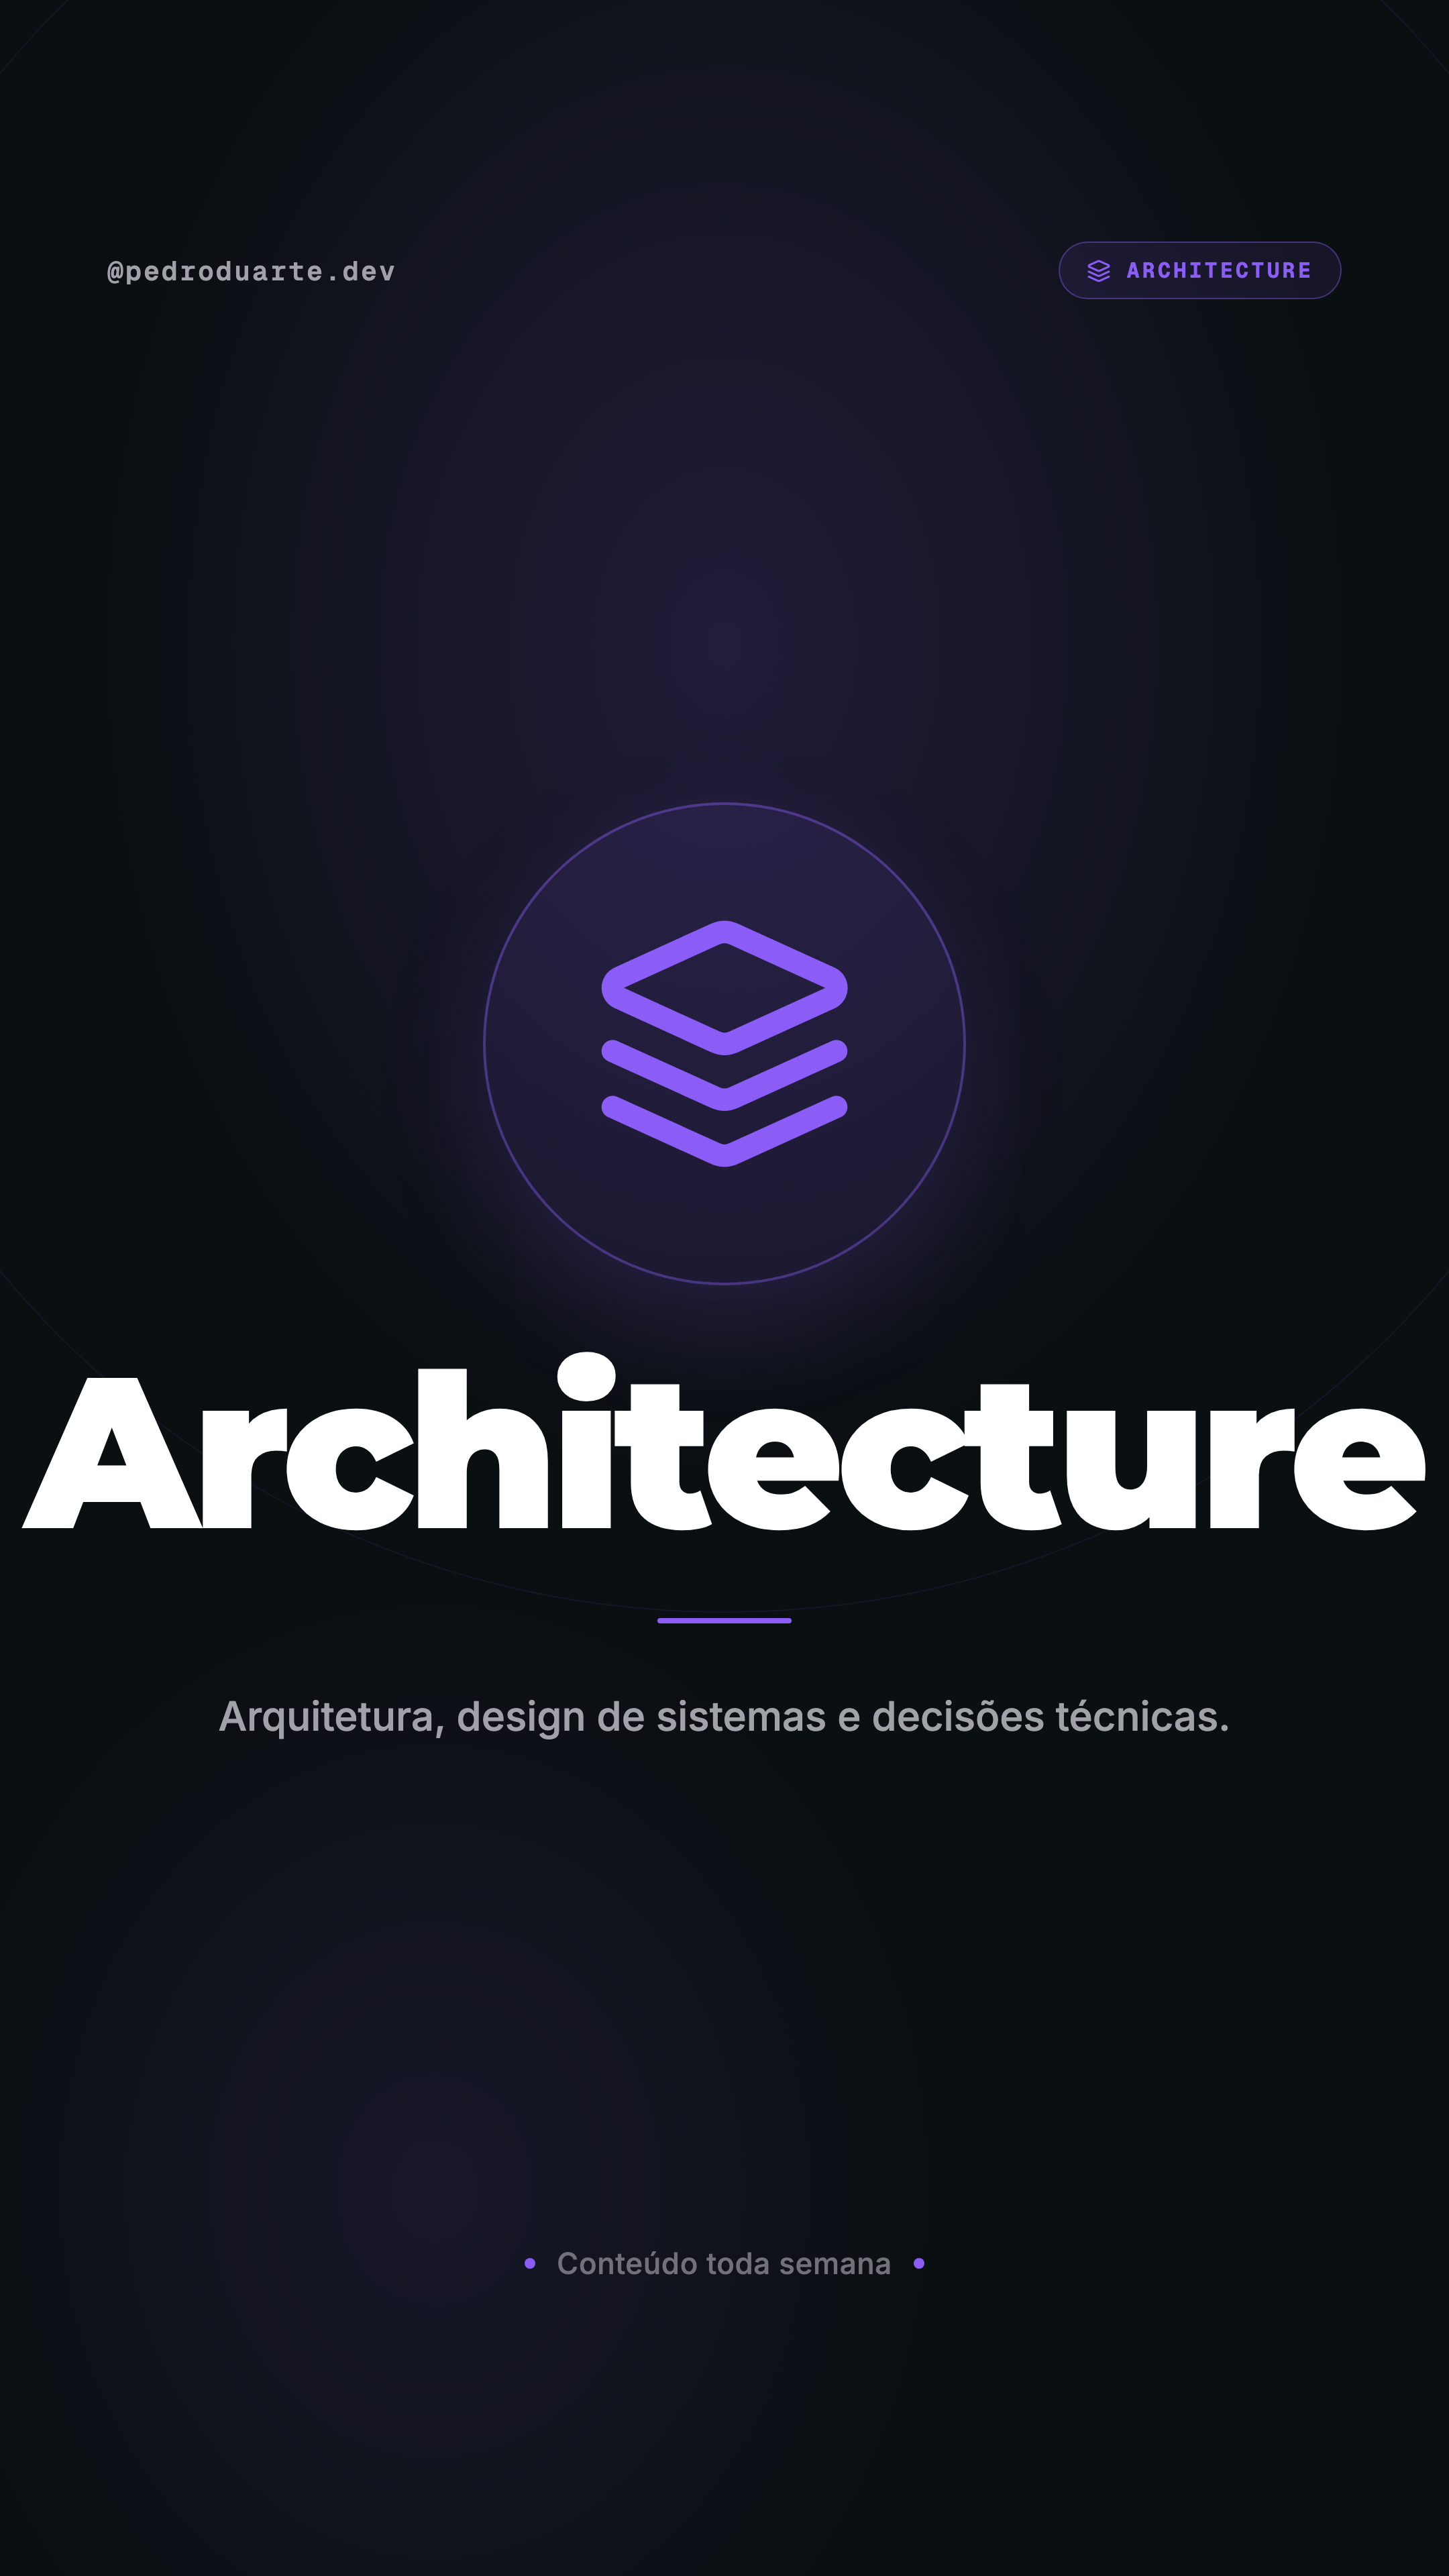
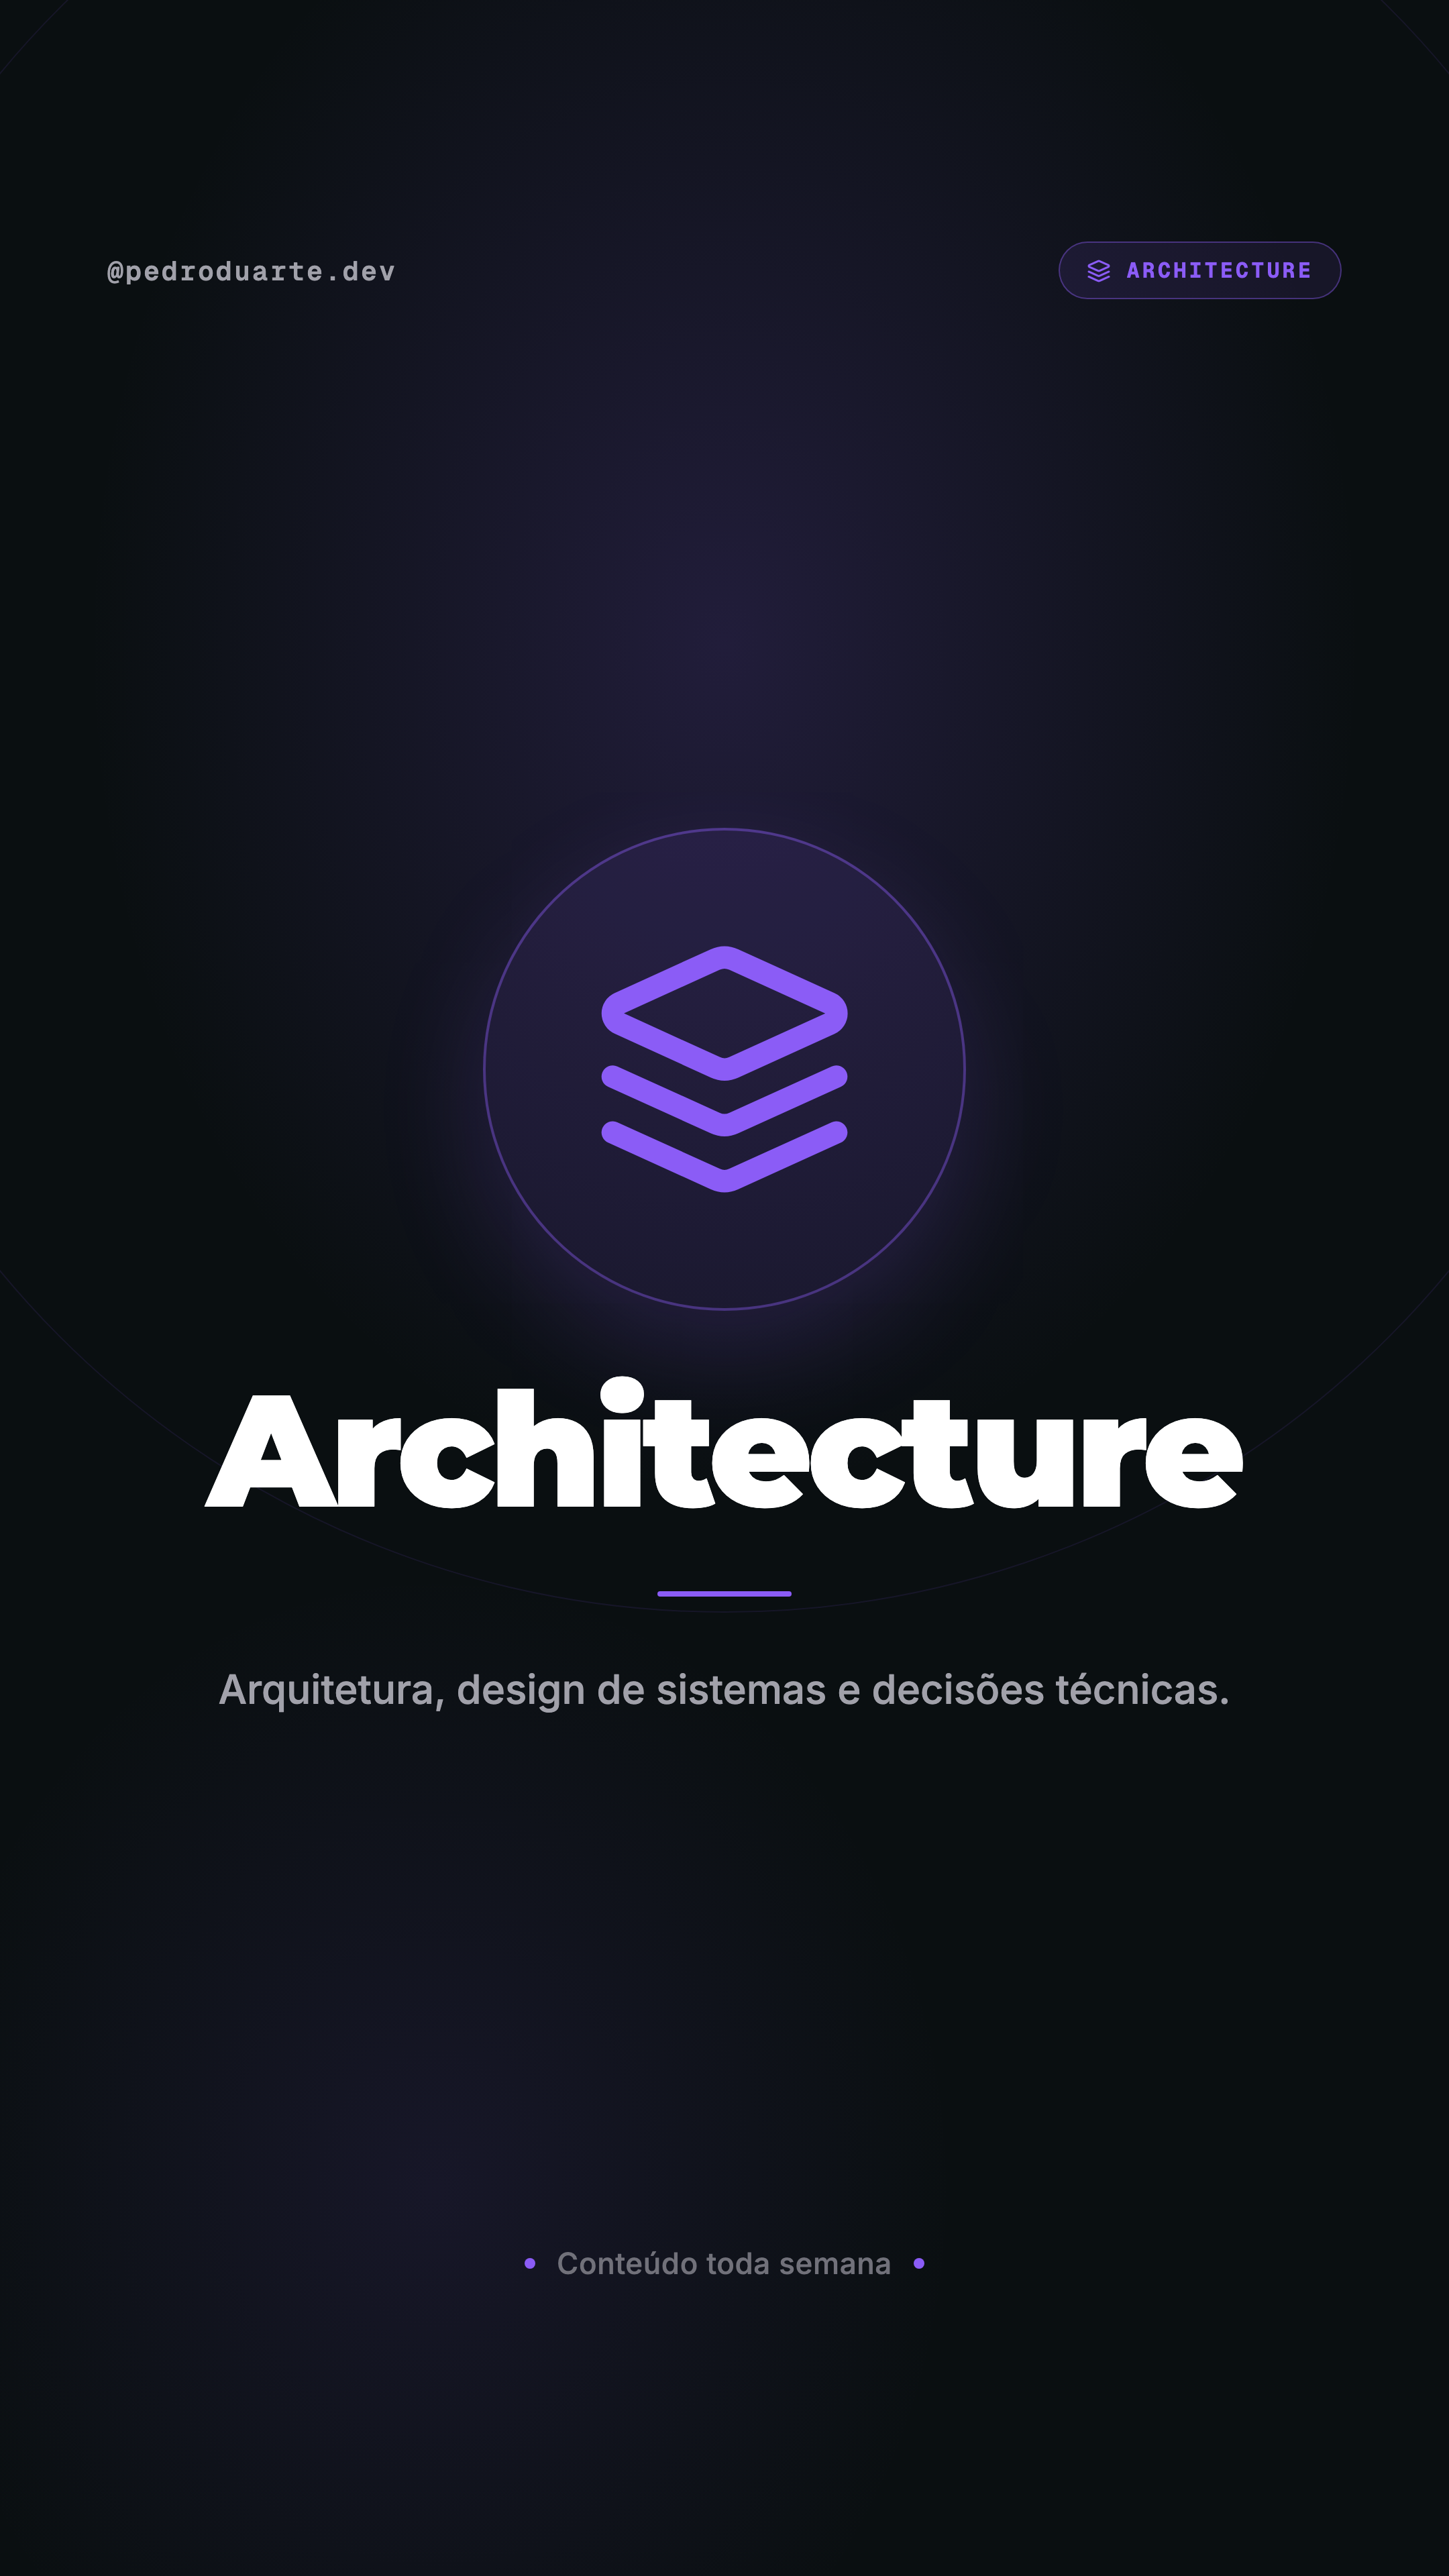
Diminui fonte da story Architecture pra caber sem comprimir
Override 118px (era 160px) só pra essa tag — nome longo tava tomando
quase toda a largura do canvas.

diff --git a/identidade/capas/stories.html b/identidade/capas/stories.html
@@ -120,6 +120,12 @@
     color: #FFFFFF;
   }
 
+  /* Tags com nome longo ganham fonte menor pra respirar */
+  .story[data-slug="architecture"] .story-name {
+    font-size: 118px;
+    letter-spacing: -3.5px;
+  }
+
   .story-divider {
     width: 100px;
     height: 4px;